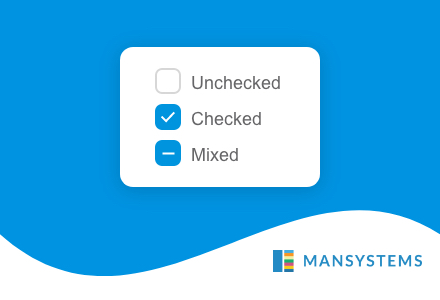
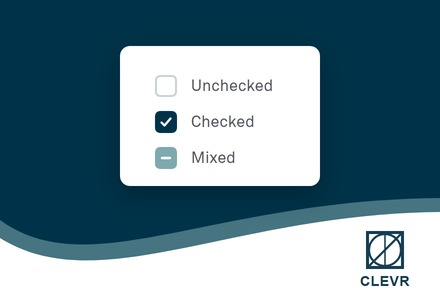
Rebrand to clevr

diff --git a/README.md b/README.md
@@ -6,8 +6,7 @@ Checkbox with three states; checked, unchecked and mixed.
 
 ## Features
 
-An easy way to select and deselect a set of boolean attributes. And allowing you to indicated when only some of the
-underling attributes are selected.
+An easy way to select and deselect a set of boolean attributes. And allowing you to indicated when only some of the underling attributes are selected.
 
 -   CSS styled checkbox, matching the standard checkbox.
 -   Intermediated or mixed state, to indicated partial selected options.
@@ -20,10 +19,7 @@ underling attributes are selected.
 
 Please note:
 
--   The change of the checkbox does only effect the enumeration attribute and does not automatically reflect to its
-    dependents, it requires an `On change` action.
-
-When Mendix 8.xx has support for editable data source we can add more flexibility to this widget.
+-   The change of the checkbox does only effect the enumeration attribute and does not automatically reflect to its dependents, it requires an `On change` action.
 
 ## Usage
 
